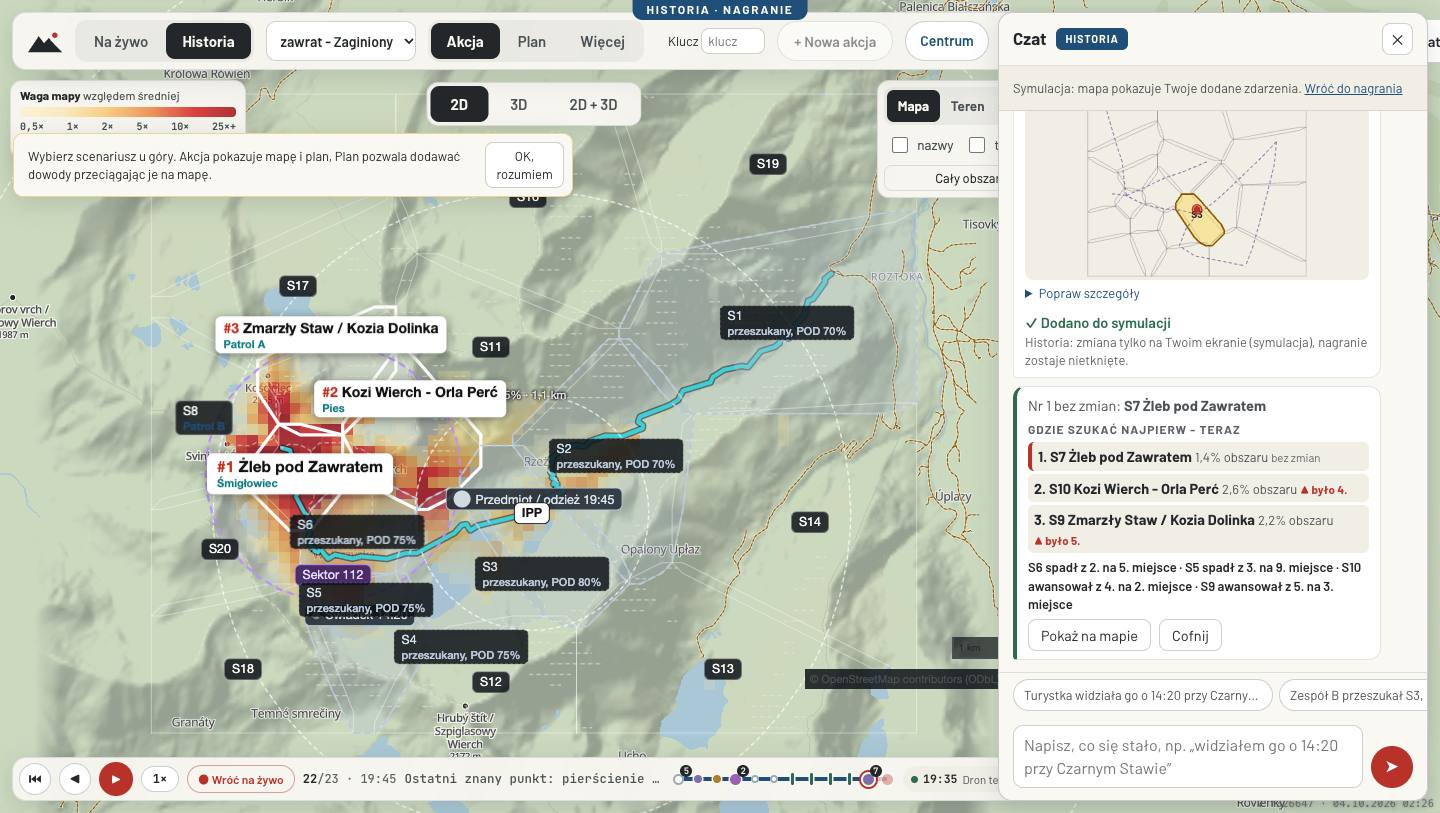
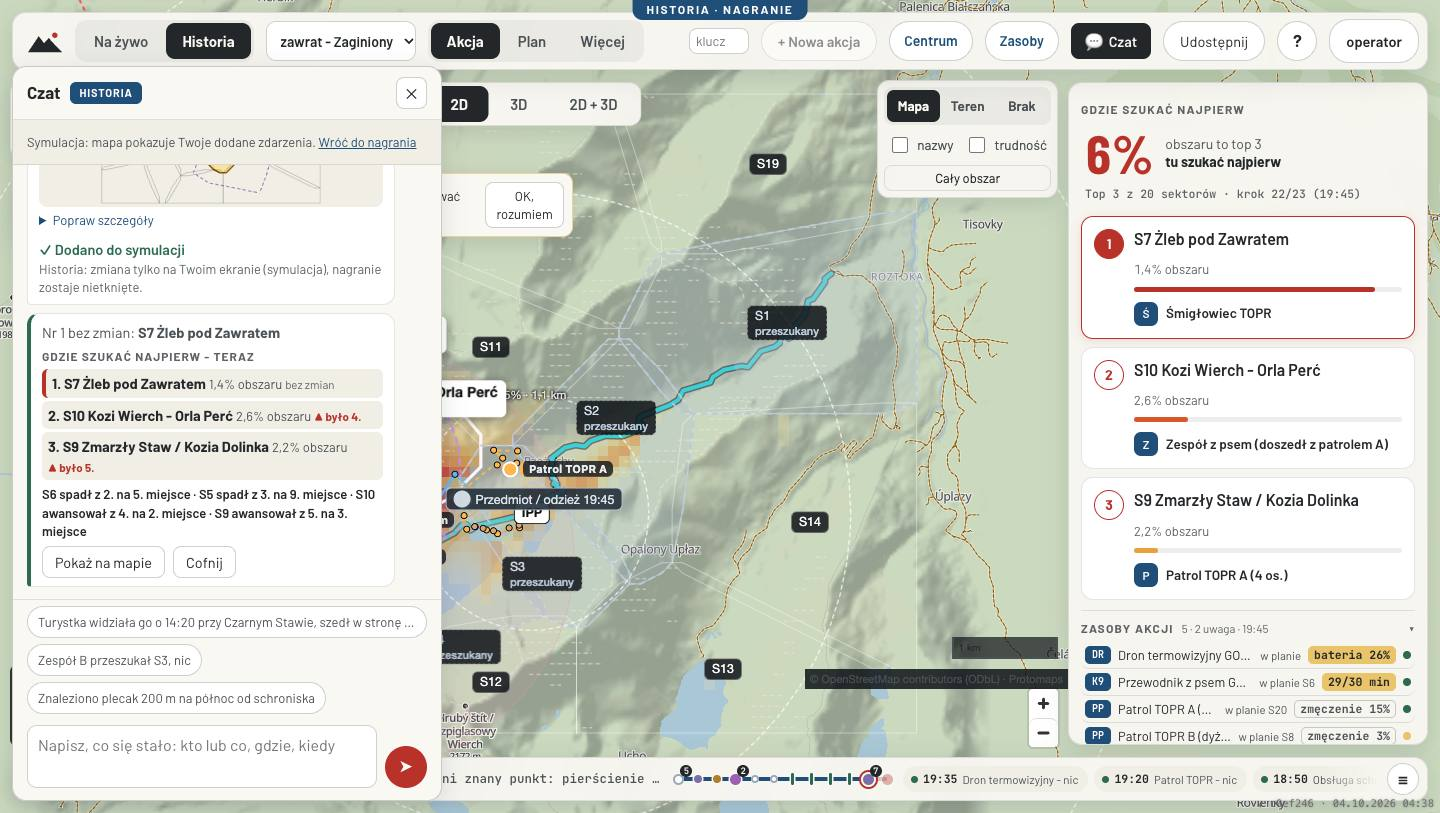
docs(rescue): Czat - in-place 2D update timing on production, chips per scenario, drawer on the left; production screenshots

diff --git a/docs/rescue-locator/czat.md b/docs/rescue-locator/czat.md
@@ -32,12 +32,13 @@ previous one. Historia computes all of them in one what-if run.
 
 ## Map refresh and timeline
 
-- No blank 2D: a chat change marks the shell's 2D frame dirty, so the shell's own double buffer (old map until the new one says
-  "ready", then a 200 ms crossfade) is used instead of `{type:"run"}` (which reloads the view in place, blank ~1-2 s). czat.html
-  has its own double buffer. The test samples the visible 2D every 40 ms: 0 blank samples in 4 changes.
-- Time to the new map: the server run (0.7 s on production, Historia baseline prefetched when the chat opens) + the 2D boot
-  (~2 s headless). The hidden warm 3D view now reloads only after the 2D swap (app.js, 8d943e4); booting both at once took the 2D
-  from 2 s to 16 s. Under 300 ms needs an in-place run update inside `web/app.js` (rebuild the model without a reload), owner of web/.
+- No blank 2D, in place: the shell posts `{type:"run", url}` to its ready 2D view and `web/app.js runInPlace` (3218de4) rebuilds the
+  model from the new run on the same grid without reloading the frame (map, camera, base, selection kept; another grid or any
+  error reloads as before). Production, "Dodaj" -> new heat: ~0.9 s, of which the server run ~0.9 s and the 2D update ~2-10 ms.
+  czat.html posts the same message (its double buffer stays only as the fallback). 0 blank samples in 4 changes.
+- Chips per scenario: hand-tuned for zawrat, morskie-oko, rodzina-dziecko-las, sniardwy, krakow-nowa-huta; generated from the
+  scenario's sectors, teams and kind (water / city / mountain) elsewhere. Sector ids of any scenario (M7, W3, N9, R6) are read.
+- /app drawer opens on the left below the top bar (top 3 panel and header buttons stay visible).
 - Dock: in Historia the chat events are steps of the what-if run, so they are on the timeline; their markers get a red ring
   (`.tlk.chat`, groups from `dock.js` `evGroups`, dock.js unchanged).
 
